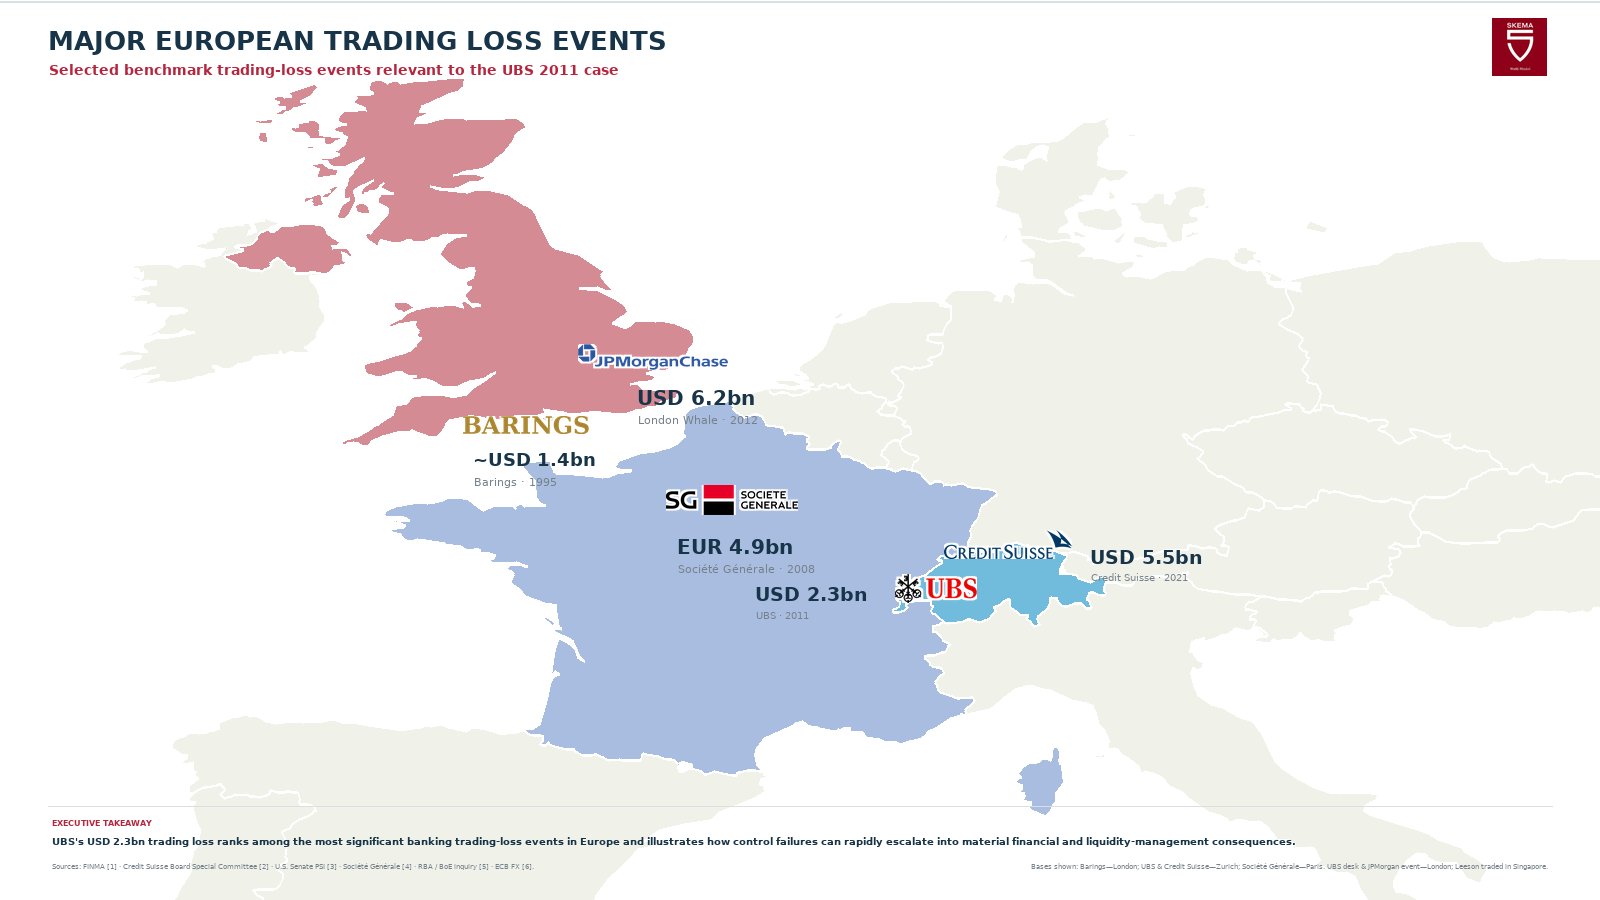
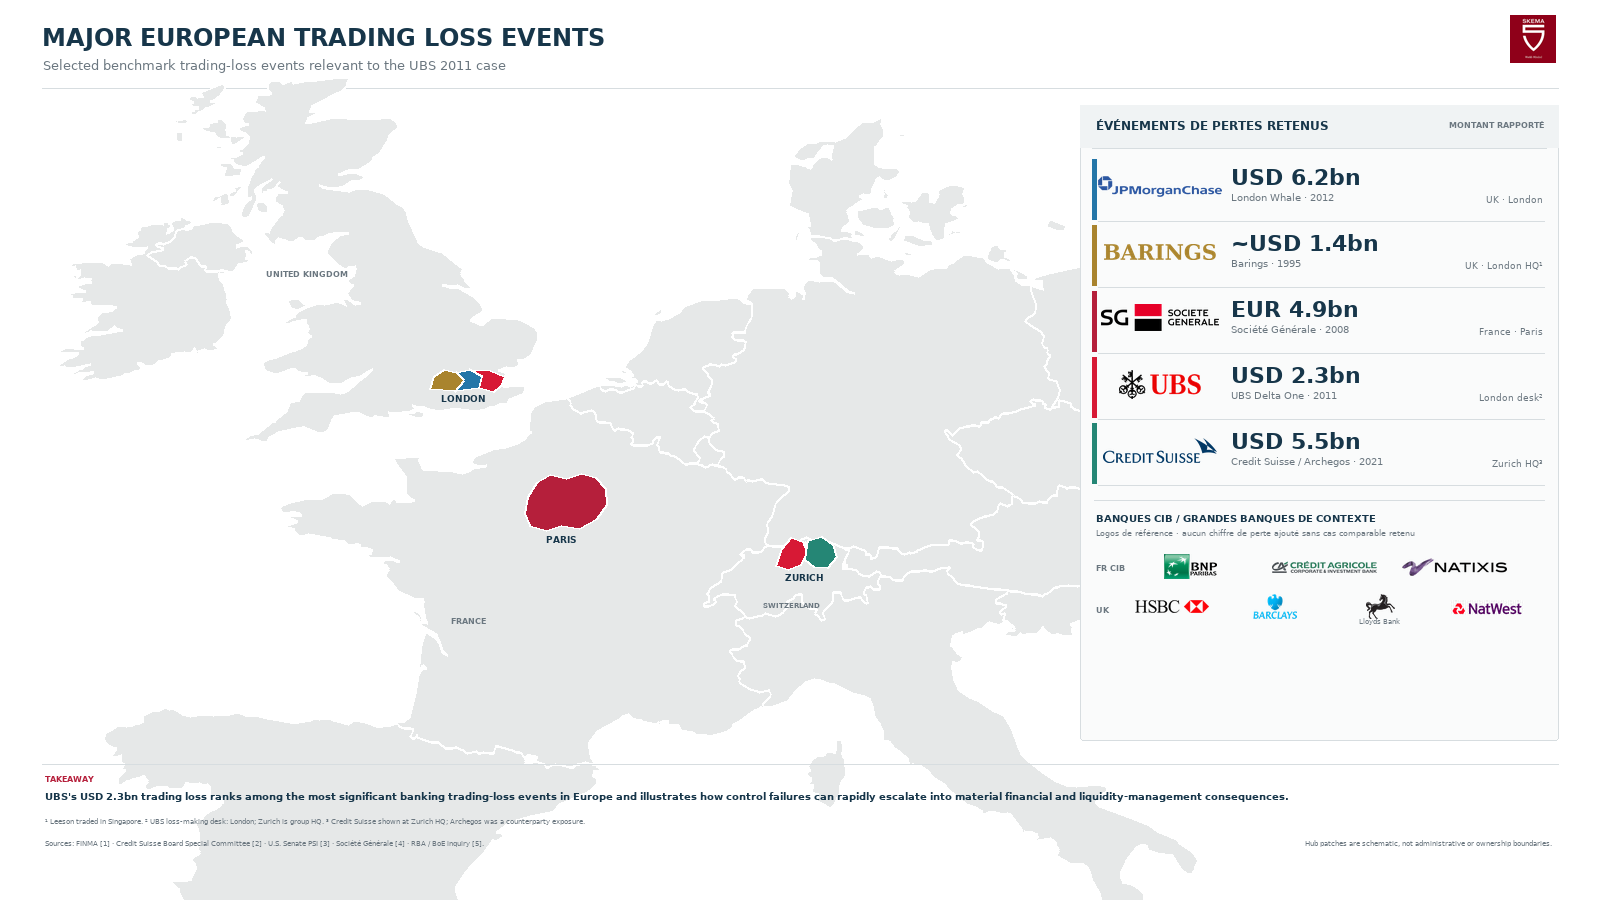
Add peer banks and regional hub dashboard

diff --git a/documents/build_ubs_event_context_map.py b/documents/build_ubs_event_context_map.py
@@ -1,6 +1,6 @@
 from pathlib import Path
 import json
-from PIL import Image, ImageDraw, ImageFont, ImageFilter
+from PIL import Image, ImageDraw, ImageFont
 
 ROOT = Path(__file__).resolve().parent
 ASSETS = ROOT / 'assets'
@@ -8,43 +8,41 @@ OUT = ROOT / 'ubs-event-context-map.png'
 W, H = 1600, 900
 
 PAPER = '#FFFFFF'
-INK = '#183448'
-MUTED = '#75818A'
-LAND = '#F0F2EA'
-WATER = '#FFFFFF'
-COAST = '#FFFFFF'
-UK_FILL = '#D58B94'
-FR_FILL = '#A9BDE0'
-CH_FILL = '#71BBDD'
+INK = '#17364A'
+MUTED = '#6B7780'
+LAND = '#E6E8E8'
+BORDER = '#FFFFFF'
+GRID = '#D7DDE0'
+JPM_BLUE = '#2476A8'
+UBS_RED = '#D71935'
+CS_TEAL = '#258675'
+SG_RED = '#B51F3B'
 BARINGS_GOLD = '#A9842E'
 
 FONT = '/usr/share/fonts/truetype/dejavu/DejaVuSans.ttf'
 BOLD = '/usr/share/fonts/truetype/dejavu/DejaVuSans-Bold.ttf'
-ITALIC = FONT
 SERIF_BOLD = '/usr/share/fonts/truetype/dejavu/DejaVuSerif-Bold.ttf'
 _font_cache = {}
 
-def font(size, bold=False, italic=False, serif=False):
-    key = (size, bold, italic, serif)
+def font(size, bold=False, serif=False):
+    key = (size, bold, serif)
     if key not in _font_cache:
-        path = SERIF_BOLD if serif else (BOLD if bold else (ITALIC if italic else FONT))
-        _font_cache[key] = ImageFont.truetype(path, size)
+        _font_cache[key] = ImageFont.truetype(SERIF_BOLD if serif else (BOLD if bold else FONT), size)
     return _font_cache[key]
 
-def text(draw, xy, value, size, color=INK, bold=False, italic=False, anchor=None):
-    draw.text(xy, value, font=font(size, bold, italic), fill=color, anchor=anchor)
+def text(draw, xy, value, size, color=INK, bold=False, anchor=None, serif=False):
+    draw.text(xy, value, font=font(size, bold, serif), fill=color, anchor=anchor)
 
-def load_logo(filename, remove_white=False):
+def load_logo(filename, remove_light_bg=False):
     image = Image.open(ASSETS / filename).convert('RGBA')
-    if remove_white:
+    if remove_light_bg:
         pixels = image.load()
         for y in range(image.height):
             for x in range(image.width):
                 r, g, b, a = pixels[x, y]
-                if r > 245 and g > 245 and b > 245:
+                if min(r, g, b) > 238 and max(r, g, b) - min(r, g, b) < 24:
                     pixels[x, y] = (r, g, b, 0)
-    alpha = image.getchannel('A')
-    bbox = alpha.point(lambda a: 255 if a > 10 else 0).getbbox()
+    bbox = image.getchannel('A').point(lambda a: 255 if a > 10 else 0).getbbox()
     return image.crop(bbox) if bbox else image
 
 def fit(image, max_width, max_height):
@@ -52,34 +50,26 @@ def fit(image, max_width, max_height):
     return image.resize((max(1, round(image.width * scale)), max(1, round(image.height * scale))), Image.Resampling.LANCZOS)
 
 def paste_logo(canvas, logo, center, max_size):
-    """Place a clean bank mark directly on the coloured map, with a fine white halo."""
     mark = fit(logo, *max_size)
-    alpha = mark.getchannel('A')
-    halo_alpha = alpha.filter(ImageFilter.MaxFilter(5))
-    halo = Image.new('RGBA', mark.size, (255, 255, 255, 0))
-    halo.putalpha(halo_alpha)
     x = round(center[0] - mark.width / 2)
     y = round(center[1] - mark.height / 2)
-    canvas.alpha_composite(halo, (x, y))
     canvas.alpha_composite(mark, (x, y))
     return mark.size
 
-# Clean, white canvas in the editorial style of the supplied regional-map reference.
+# White, restrained dashboard layout: map + aligned event values + peer-bank context.
 im = Image.new('RGBA', (W, H), PAPER)
 d = ImageDraw.Draw(im)
-
-# Header kept deliberately compact so the map remains the dominant visual.
-d.line((0, 1, W, 1), fill='#D9E0E2', width=2)
-text(d, (48, 25), 'MAJOR EUROPEAN TRADING LOSS EVENTS', 26, INK, bold=True)
-text(d, (49, 62), 'Selected benchmark trading-loss events relevant to the UBS 2011 case', 14, '#B5263E', bold=True)
+text(d, (42, 23), 'MAJOR EUROPEAN TRADING LOSS EVENTS', 24, INK, bold=True)
+text(d, (43, 57), 'Selected benchmark trading-loss events relevant to the UBS 2011 case', 13, MUTED)
 skema = Image.open(ASSETS / 'skema-logo.png').convert('RGBA')
-skema.thumbnail((58, 58), Image.Resampling.LANCZOS)
-im.alpha_composite(skema, (1492, 18))
+skema.thumbnail((48, 48), Image.Resampling.LANCZOS)
+im.alpha_composite(skema, (1510, 15))
+d.line((42, 88, 1558, 88), fill=GRID, width=1)
 
-# Stylized western-European map, with only countries tied to the selected events coloured.
-mx, my, mw, mh = 42, 105, 1516, 685
-lon0, lon1 = -12.0, 20.0
-lat0, lat1 = 42.0, 58.0
+# Main map area: neutral countries, with only local banking hubs filled.
+mx, my, mw, mh = 35, 105, 1025, 635
+lon0, lon1 = -11.0, 15.0
+lat0, lat1 = 43.0, 58.0
 
 def xy(lon, lat):
     return (mx + (lon - lon0) / (lon1 - lon0) * mw,
@@ -90,7 +80,7 @@ with geo_path.open(encoding='utf-8') as handle:
     geo = json.load(handle)
 geometries = {feature['properties']['name']: feature['geometry'] for feature in geo['features']}
 
-def draw_country(name, fill):
+def draw_country(name):
     geometry = geometries.get(name)
     if not geometry:
         return
@@ -102,67 +92,107 @@ def draw_country(name, fill):
         if max(xs) < lon0 or min(xs) > lon1 or max(ys) < lat0 or min(ys) > lat1:
             continue
         points = [xy(lon, lat) for lon, lat in ring]
-        d.polygon(points, fill=fill)
-        d.line(points + [points[0]], fill=COAST, width=2, joint='curve')
+        d.polygon(points, fill=LAND)
+        d.line(points + [points[0]], fill=BORDER, width=2, joint='curve')
 
-# Background land and fine white country borders, as in the example map.
-context_countries = [
-    'Portugal', 'Spain', 'Ireland', 'Belgium', 'Netherlands', 'Germany',
-    'Denmark', 'Czechia', 'Slovakia', 'Slovenia', 'Poland', 'Hungary',
-    'Italy', 'Austria', 'Luxembourg'
+countries = [
+    'Portugal', 'Spain', 'Ireland', 'United Kingdom', 'France', 'Belgium',
+    'Netherlands', 'Luxembourg', 'Germany', 'Denmark', 'Poland', 'Czechia',
+    'Slovakia', 'Austria', 'Switzerland', 'Italy', 'Slovenia', 'Hungary'
 ]
-for country in context_countries:
-    draw_country(country, LAND)
-draw_country('United Kingdom', UK_FILL)
-draw_country('France', FR_FILL)
-draw_country('Switzerland', CH_FILL)
+for country in countries:
+    draw_country(country)
 
-# Bank marks are placed directly on their highlighted countries (no pins, circles or leader lines).
+def hub_patch(points, color):
+    polygon = [xy(lon, lat) for lon, lat in points]
+    d.polygon(polygon, fill=color)
+    d.line(polygon + [polygon[0]], fill=PAPER, width=2, joint='curve')
+
+# London: three small local zones, not a coloured UK. These offsets separate shared hubs.
+hub_patch([(-0.96, 51.28), (-0.86, 51.58), (-0.62, 51.75), (-0.30, 51.69), (-0.10, 51.49), (-0.34, 51.24)], BARINGS_GOLD)
+hub_patch([(-0.10, 51.49), (-0.30, 51.69), (0.02, 51.76), (0.34, 51.59), (0.28, 51.31), (-0.34, 51.24)], JPM_BLUE)
+hub_patch([(0.28, 51.31), (0.34, 51.59), (0.02, 51.76), (0.56, 51.74), (0.90, 51.58), (0.82, 51.35), (0.62, 51.22)], UBS_RED)
+# Paris / Île-de-France: only the local metropolitan area is highlighted.
+hub_patch([(1.42, 48.35), (1.55, 48.06), (1.98, 47.95), (2.35, 48.06), (2.80, 48.00), (3.26, 48.23), (3.53, 48.56), (3.50, 48.91), (3.25, 49.17), (2.87, 49.27), (2.48, 49.15), (2.08, 49.24), (1.72, 49.05), (1.50, 48.72)], SG_RED)
+# Zurich: UBS and Credit Suisse are shown as separate hub patches.
+hub_patch([(7.82, 47.10), (7.95, 47.53), (8.18, 47.78), (8.48, 47.70), (8.58, 47.43), (8.42, 47.13), (8.12, 47.00)], UBS_RED)
+hub_patch([(8.58, 47.43), (8.62, 47.72), (8.94, 47.80), (9.24, 47.62), (9.32, 47.30), (9.09, 47.04), (8.78, 47.08), (8.55, 47.25)], CS_TEAL)
+
+# Small city/country labels in conventional map style.
+text(d, xy(-0.12, 51.05), 'LONDON', 9, INK, bold=True, anchor='mm')
+text(d, xy(2.35, 47.72), 'PARIS', 9, INK, bold=True, anchor='mm')
+text(d, xy(8.54, 46.82), 'ZURICH', 9, INK, bold=True, anchor='mm')
+text(d, xy(-4.1, 54.0), 'UNITED KINGDOM', 8, MUTED, bold=True, anchor='mm')
+text(d, xy(0.0, 45.8), 'FRANCE', 8, MUTED, bold=True, anchor='mm')
+text(d, xy(8.2, 46.2), 'SWITZERLAND', 7, MUTED, bold=True, anchor='mm')
+
+# Event data panel: bank marks and large reported loss figures, in a simple aligned grid.
+px, py, pw, ph = 1080, 105, 478, 635
+d.rounded_rectangle((px, py, px + pw, py + ph), radius=3, fill='#FAFBFB', outline=GRID, width=1)
+d.rectangle((px, py, px + pw, py + 42), fill='#F0F3F4')
+text(d, (px + 16, py + 13), 'ÉVÉNEMENTS DE PERTES RETENUS', 12, INK, bold=True)
+text(d, (px + pw - 14, py + 15), 'MONTANT RAPPORTÉ', 8, MUTED, bold=True, anchor='ra')
+d.line((px + 12, py + 43, px + pw - 12, py + 43), fill=GRID, width=1)
+
 logos = {
     'JPM': load_logo('jpmorgan-chase-logo.png'),
     'SG': load_logo('societe-generale-logo.png'),
-    'UBS': load_logo('ubs-logo.png', remove_white=True),
+    'UBS': load_logo('ubs-logo.png', remove_light_bg=True),
     'CS': load_logo('credit-suisse-logo.png'),
+    'BNP': load_logo('bnp-paribas-logo.png', remove_light_bg=True),
+    'CA': load_logo('credit-agricole-cib-logo.png'),
+    'NATIXIS': load_logo('natixis-logo.png'),
+    'HSBC': load_logo('hsbc-logo.png', remove_light_bg=True),
+    'BARCLAYS': load_logo('barclays-logo.jpg', remove_light_bg=True),
+    'LLOYDS': load_logo('lloyds-bank-logo.png'),
+    'NATWEST': load_logo('natwest-logo.png', remove_light_bg=True),
 }
 barings = Image.new('RGBA', (460, 100), (255, 255, 255, 0))
 ImageDraw.Draw(barings).text((8, 3), 'BARINGS', font=font(68, bold=True, serif=True), fill=BARINGS_GOLD)
 barings = barings.crop(barings.getchannel('A').getbbox())
 logos['BARINGS'] = barings
 
-# UK — two events, offset within the country to keep each wordmark and value readable.
-paste_logo(im, logos['JPM'], (653, 357), (150, 39))
-d = ImageDraw.Draw(im)
-text(d, (637, 386), 'USD 6.2bn', 20, INK, bold=True)
-text(d, (638, 413), 'London Whale · 2012', 11, MUTED, italic=True)
+def event_row(y, logo_key, value, name, year, hub, accent, logo_width=112):
+    d.rectangle((px + 12, y, px + 16, y + 60), fill=accent)
+    paste_logo(im, logos[logo_key], (px + 80, y + 27), (logo_width, 31))
+    text(d, (px + 151, y + 5), value, 22, INK, bold=True)
+    text(d, (px + 151, y + 32), f'{name} · {year}', 10, MUTED)
+    text(d, (px + pw - 15, y + 35), hub, 9, MUTED, anchor='ra')
+    d.line((px + 18, y + 62, px + pw - 14, y + 62), fill=GRID, width=1)
 
-paste_logo(im, logos['BARINGS'], (526, 425), (126, 29))
-d = ImageDraw.Draw(im)
-text(d, (473, 449), '~USD 1.4bn', 18, INK, bold=True)
-text(d, (474, 475), 'Barings · 1995', 11, MUTED, italic=True)
+event_row(py + 54, 'JPM', 'USD 6.2bn', 'London Whale', '2012', 'UK · London', JPM_BLUE, 124)
+event_row(py + 120, 'BARINGS', '~USD 1.4bn', 'Barings', '1995', 'UK · London HQ¹', BARINGS_GOLD, 112)
+event_row(py + 186, 'SG', 'EUR 4.9bn', 'Société Générale', '2008', 'France · Paris', SG_RED, 118)
+event_row(py + 252, 'UBS', 'USD 2.3bn', 'UBS Delta One', '2011', 'London desk²', UBS_RED, 82)
+event_row(py + 318, 'CS', 'USD 5.5bn', 'Credit Suisse / Archegos', '2021', 'Zurich HQ³', CS_TEAL, 114)
 
-# France — Société Générale / Kerviel.
-paste_logo(im, logos['SG'], (732, 500), (132, 43))
-d = ImageDraw.Draw(im)
-text(d, (677, 535), 'EUR 4.9bn', 20, INK, bold=True)
-text(d, (678, 562), 'Société Générale · 2008', 11, MUTED, italic=True)
+# Peer banks are shown as institutional context only; no unsourced loss values are assigned.
+peer_y = py + 395
+d.line((px + 14, peer_y, px + pw - 14, peer_y), fill=GRID, width=1)
+text(d, (px + 16, peer_y + 12), 'BANQUES CIB / GRANDES BANQUES DE CONTEXTE', 10, INK, bold=True)
+text(d, (px + 16, peer_y + 28), 'Logos de référence · aucun chiffre de perte ajouté sans cas comparable retenu', 8, MUTED)
 
-# Switzerland — both institution marks identify the Zurich hub; amounts sit beside each mark.
-paste_logo(im, logos['CS'], (1008, 544), (128, 31))
-d = ImageDraw.Draw(im)
-text(d, (1090, 546), 'USD 5.5bn', 19, INK, bold=True)
-text(d, (1091, 571), 'Credit Suisse · 2021', 10, MUTED, italic=True)
+# French CIB peers: BNP Paribas, Crédit Agricole CIB and Natixis (Société Générale is above).
+fr_y = peer_y + 53
+text(d, (px + 16, fr_y + 10), 'FR CIB', 8, MUTED, bold=True)
+for key, cx in [('BNP', px + 111), ('CA', px + 244), ('NATIXIS', px + 375)]:
+    paste_logo(im, logos[key], (cx, fr_y + 14), (105, 25))
 
-paste_logo(im, logos['UBS'], (936, 589), (82, 42))
-d = ImageDraw.Draw(im)
-text(d, (755, 583), 'USD 2.3bn', 19, INK, bold=True)
-text(d, (756, 609), 'UBS · 2011', 10, MUTED, italic=True)
+# UK banking peers shown in a compact logo row.
+uk_y = fr_y + 39
+text(d, (px + 16, uk_y + 13), 'UK', 8, MUTED, bold=True)
+uk_marks = [('HSBC', px + 92), ('BARCLAYS', px + 195), ('LLOYDS', px + 300), ('NATWEST', px + 407)]
+for key, cx in uk_marks:
+    paste_logo(im, logos[key], (cx, uk_y + 15), (74, 25))
+text(d, (px + 300, uk_y + 29), 'Lloyds Bank', 7, MUTED, anchor='mm')
 
-# Minimal footer: exact requested takeaway plus sourcing / location caveats.
-d.line((48, 806, 1552, 806), fill='#D9E0E2', width=1)
-text(d, (52, 818), 'EXECUTIVE TAKEAWAY', 8, '#B5263E', bold=True)
-text(d, (52, 835), "UBS's USD 2.3bn trading loss ranks among the most significant banking trading-loss events in Europe and illustrates how control failures can rapidly escalate into material financial and liquidity-management consequences.", 10, INK, bold=True)
-text(d, (52, 862), 'Sources: FINMA [1] · Credit Suisse Board Special Committee [2] · U.S. Senate PSI [3] · Société Générale [4] · RBA / BoE inquiry [5] · ECB FX [6].', 7, MUTED)
-text(d, (1548, 862), 'Bases shown: Barings—London; UBS & Credit Suisse—Zurich; Société Générale—Paris. UBS desk & JPMorgan event—London; Leeson traded in Singapore.', 7, MUTED, italic=True, anchor='ra')
+# Footer with source/method notes and the requested executive takeaway.
+d.line((42, 764, 1558, 764), fill=GRID, width=1)
+text(d, (45, 774), 'TAKEAWAY', 8, SG_RED, bold=True)
+text(d, (45, 790), "UBS's USD 2.3bn trading loss ranks among the most significant banking trading-loss events in Europe and illustrates how control failures can rapidly escalate into material financial and liquidity-management consequences.", 10, INK, bold=True)
+text(d, (45, 817), '¹ Leeson traded in Singapore. ² UBS loss-making desk: London; Zurich is group HQ. ³ Credit Suisse shown at Zurich HQ; Archegos was a counterparty exposure.', 7, MUTED)
+text(d, (45, 839), 'Sources: FINMA [1] · Credit Suisse Board Special Committee [2] · U.S. Senate PSI [3] · Société Générale [4] · RBA / BoE inquiry [5].', 7, MUTED)
+text(d, (1552, 839), 'Hub patches are schematic, not administrative or ownership boundaries.', 7, MUTED, anchor='ra')
 
 im.convert('RGB').save(OUT)
 print(OUT)

diff --git a/documents/ubs-event-context-map-sources.md b/documents/ubs-event-context-map-sources.md
@@ -6,7 +6,7 @@
 
 ## What the slide says
 
-This is a selected context set, not a comprehensive league table. The UK, France and Switzerland are highlighted; other countries remain light grey. Bank logos and loss values appear directly over the map in a clean regional-infographic style. The map has no pins, proportional circles, callout boxes or leader lines; values remain in their reported currencies. The event names and years are printed adjacent to the marks.
+This is a selected context set, not a comprehensive league table. The UK, France and Switzerland remain grey except for small, schematic local banking-hub patches; no whole country is filled. The map has no pins or proportional circles. A compact Power BI-style panel places bank logos beside large loss values, while additional CIB / major-bank logos are shown as context only. No loss figure is assigned to a context bank unless a comparable benchmark case is included.
 
 The examples are all major bank trading / positions-unwind loss events, but their causes and accounting bases are not identical: UBS, Société Générale and Barings involved unauthorized or concealed trading; JPMorgan's London Whale was a synthetic-credit portfolio loss; Credit Suisse's Archegos loss was a prime-brokerage counterparty exposure. The slide does not imply those causal mechanisms are equivalent.
 
@@ -26,19 +26,26 @@ The examples are all major bank trading / positions-unwind loss events, but thei
    An accessible USD-equivalent summary: https://www.investopedia.com/ask/answers/08/nick-leeson-barings-bank.asp
 ## Identity marks
 
-Institution logos appear directly on the map and retain their visual identities. The UBS mark is the repository's existing UBS asset. Credit Suisse and Société Générale marks are sourced from Wikimedia Commons, originally credited to their respective banks; JPMorgan Chase is a wordmark asset from SeekVectors. Barings Bank historically used a heraldic crest rather than a modern logo, so the slide uses a custom period-neutral text wordmark—not the contemporary Barings asset-management logo. Brand marks remain their owners' trademarks.
+Event logos appear beside the reported loss values; peer-bank logos appear in a separate context group. The UBS mark is the repository's existing UBS asset. Credit Suisse and Société Générale marks are sourced from Wikimedia Commons, originally credited to their respective banks; JPMorgan Chase is a wordmark asset from SeekVectors. Barings Bank historically used a heraldic crest rather than a modern logo, so the slide uses a custom period-neutral text wordmark—not the contemporary Barings asset-management logo. Peer marks are used for identification only. Brand marks remain their owners' trademarks.
 
 - Credit Suisse logo: https://commons.wikimedia.org/wiki/File:Credit_Suisse_Logo.svg
 - Société Générale logo: https://commons.wikimedia.org/wiki/File:Logo-SG-Soci%C3%A9t%C3%A9-G%C3%A9n%C3%A9rale.svg
 - JPMorgan Chase wordmark: https://seekvectors.com/post/jpmorgan-chase-logo-vector
 - Barings' historical crest context: https://content.time.com/time/specials/packages/article/0,28804,1937349_1937350_1937488,00.html
+- BNP Paribas logo: https://www.pngplay.com/image/59723
+- Crédit Agricole CIB logo: https://seeklogo.com/free-vector-logos/credit-agricole
+- Natixis logo: https://seeklogo.com/free-vector-logos/natixis
+- HSBC logo: https://www.pngitem.com/middle/oJTbwo_hsbc-bank-logo-png-transparent-png/
+- Barclays logo: https://1000logos.net/barclays-logo/
+- Lloyds Banking Group logo: https://companieslogo.com/lloyds-banking-group/logo/
+- NatWest logo: https://www.vhv.rs/viewpic/TioTmix_natwest-bank-logo-transparent-background-image-natwest-bank/
 
 ## Map fills and annotations
 
-- The United Kingdom, France and Switzerland are the only highlighted territories; other mapped European countries remain light grey. Country fills are schematic geographic emphasis, not administrative or bank-ownership boundaries.
-- Logos, reported loss values and event years are placed directly over the map in the style of the supplied regional-map reference. No circles, pins, callout boxes or leader lines are used.
-- Amounts remain in the reported display currency: USD for UBS, Credit Suisse, JPMorgan and Barings; EUR for Société Générale. Barings’ USD 1.4bn is approximate; the official inquiry reports GBP 827m cumulative losses and GBP 927m including close-out costs.
-- The map identifies institutional hubs, not necessarily precise trading locations: UBS and Credit Suisse are shown in Switzerland (Zurich headquarters); Société Générale in France (Paris); JPMorgan in the UK (London Whale); Barings in the UK (London headquarters). The UBS loss-making desk was in London, and Leeson traded in Singapore. Footer text clarifies these distinctions; logo placements are offset within highlighted countries only for readability.
+- Whole countries are shown in neutral grey. Only small schematic banking-hub areas are coloured: London (Barings/JPMorgan/UBS), Paris / Île-de-France (Société Générale), and Zurich (UBS/Credit Suisse). They are not administrative regions or claims of bank ownership.
+- The right-hand table shows the five retained benchmark events and their large reported loss amounts. Additional French CIB peers—BNP Paribas, Crédit Agricole CIB and Natixis—and UK peers—HSBC, Barclays, Lloyds Bank and NatWest—are shown as logos only. No additional loss values are assigned to these peers in this selected comparison.
+- There are no proportional circles or pin markers. Event values stay in their reported currencies: USD for UBS, Credit Suisse, JPMorgan and Barings; EUR for Société Générale. Barings’ USD 1.4bn is approximate; the official inquiry reports GBP 827m cumulative losses and GBP 927m including close-out costs.
+- The map identifies institutional hubs, not necessarily precise trading locations: UBS and Credit Suisse are shown at their Zurich headquarters; Société Générale at Paris; JPMorgan's London Whale at London; Barings at its London headquarters. UBS's loss-making desk was in London, and Leeson traded in Singapore. The footer clarifies these distinctions.
 - No event loss is inflation-adjusted; the slide compares nominal headline impacts across years, not present-value purchasing power.
 
 ## Executive takeaway
